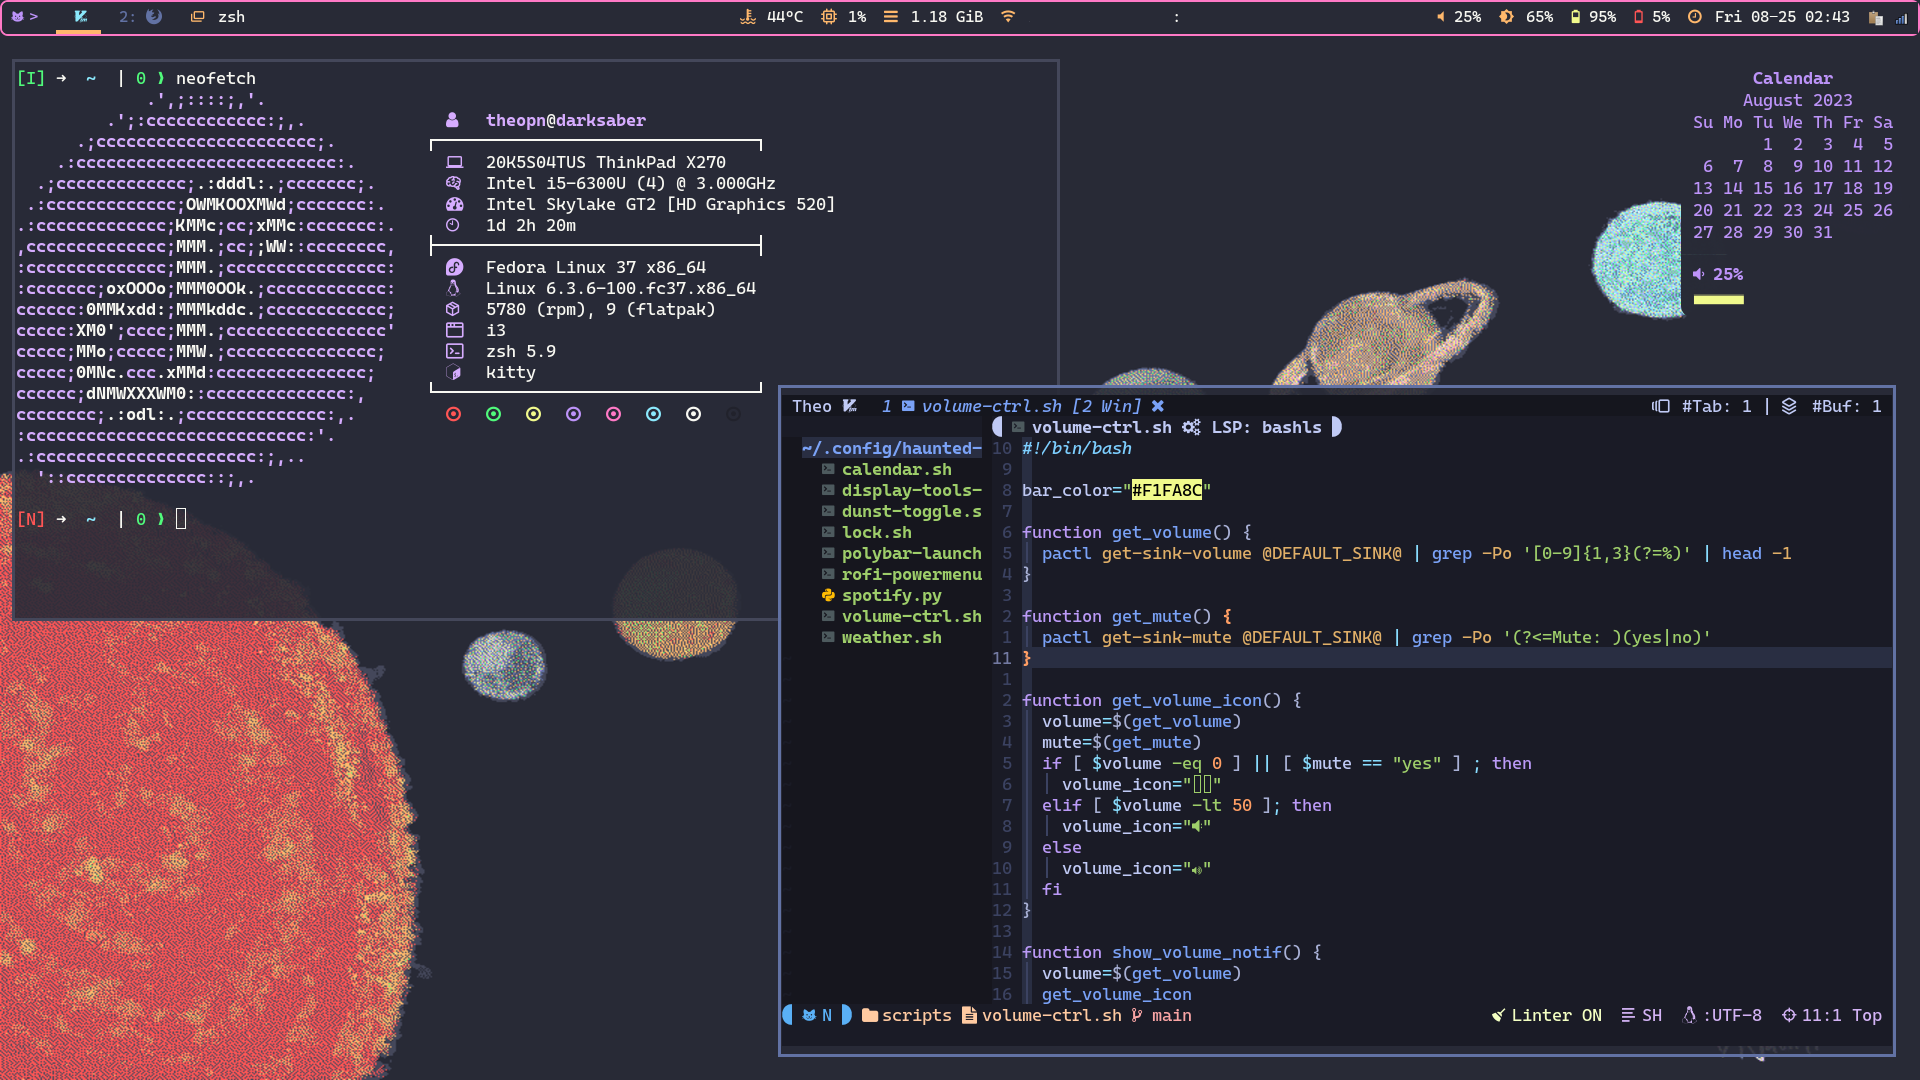
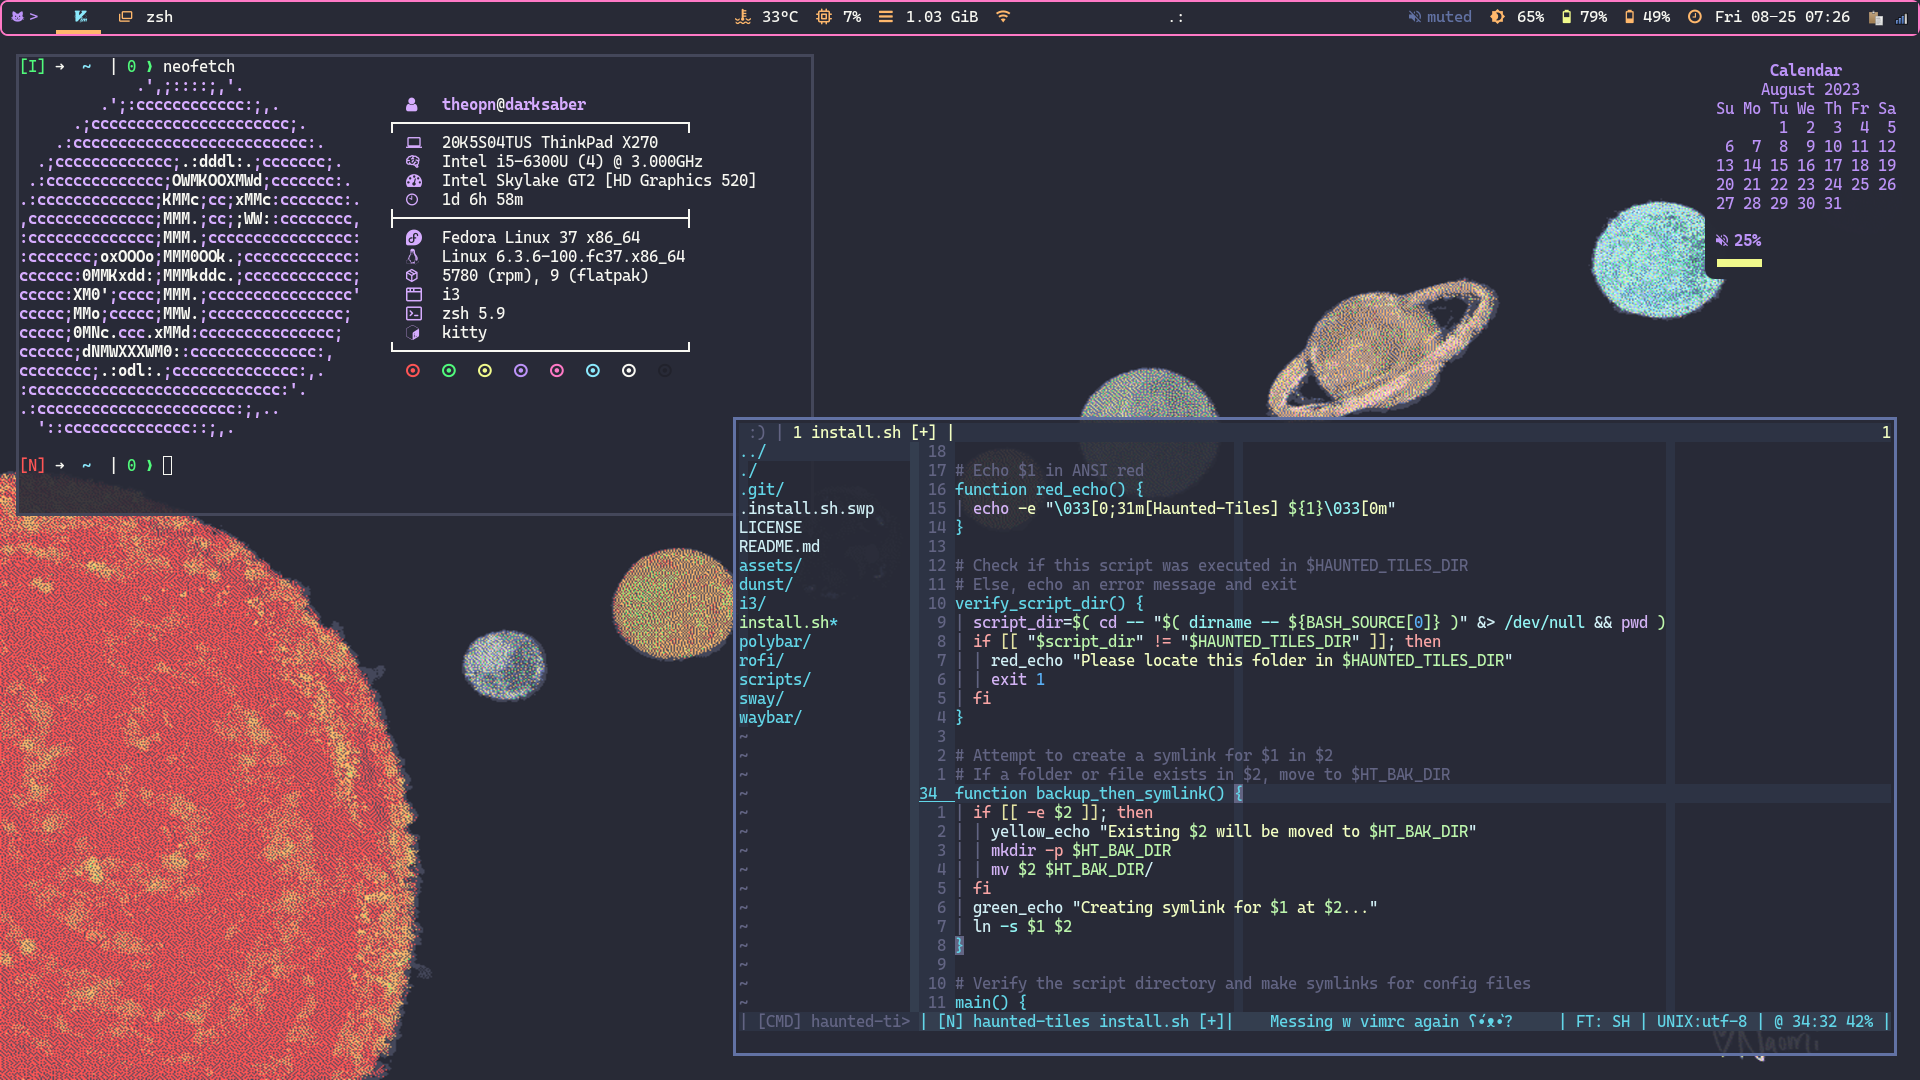
docs: change i3 screenshot

diff --git a/README.md b/README.md
@@ -1,6 +1,6 @@
 # Haunted-Tiles
 
-| <img src="./assets/haunted-tiles-logo.png" width="250" alt="Haunted Tiles logo"> |
+| <img src="./assets/out.png" width="250" alt="Haunted Tiles logo"> |
 |:--:|
 | Cute Logo |
 | ![i3-sc](./assets/i3-sc.png) |
@@ -9,30 +9,16 @@
 | Sway |
 
 
-Haunted-tiles is my i3 WM and Sway configurations, along with accommodating tools.
+Haunted-tiles is my personal i3 WM and Sway configurations, along with accommodating tools.
 It used to be a part of my [dotfiles repository](https://github.com/theopn/dotfile), but with the growing number of configurations and shared scripts between i3 and Sway, I made a separate repository for it.
 
-Both WM has 
-
-## Installation
-
-```bash
-git clone  ~/.config/haunted-tiles
-~/.config/haunted-tiles/install.sh
-```
-
-## Keybindings
-
-List of keybindings differing from the default:
-
-- `jkl;` -> `hjkl`
-- `$mod + h` -> `$mod + z`: "hori[z]ontal" split
-- `$mod + Space`: launches Rofi (you can also use the default `$mod+d`)
-- `$mod + Shift + c/r/e`: launches `i3_mode`/`sway_mode`, from which you can choose to reload config, restart, or exit i3/Sway
-- `$mod + Shift + p`: launches a Rofi menu with power options (lock, suspend, shutdown, etc.)
-- `$mod + Shift + s`: screenshot tool
+- Both X11 and Wayland strive to be a minimal setup that gets out of your way
+- The overall theme is [Dracula](https://draculatheme.com/contribute), hence the name "Haunted"-tiles
+    - It's also because I like naming everything
 
 ## i3 Dependencies
+
+These are packages get directly called in the i3 config or one of the scripts:
 
 - Brightnessctl: Backlight control
 - Clipit: Clipboard manager
@@ -55,6 +41,29 @@ Not necessary but helpful packages:
 - Pavucontrol: Volume control for Pulseaudio (or Pipewire that pretends to be Pulseaudio)
 - xrandr: External display output control, should be a dependency for X11 server
 
+## Installation
+
+- Installation script will ask you before creating a symlink for each configuration file
+- If there is a file/directory in the destination, it will be moved to `~/haunted-tiles.bak`
+- **Make sure you have Nerd Font installed!**
+    Haunted-tiles uses [CaskaydiaCove Nerd Font](https://www.nerdfonts.com/font-downloads).
+
+```bash
+git clone  ~/.config/haunted-tiles
+~/.config/haunted-tiles/install.sh
+```
+
+## Keybindings
+
+List of keybindings differing from the default i3/Sway:
+
+- `jkl;` -> `hjkl`
+- `$mod + h` -> `$mod + z`: hori[z]ontal split
+- `$mod + Space`: launches Rofi (you can also use the default `$mod+d`)
+- `$mod + Shift + c/r/e`: launches `i3_mode`/`sway_mode`, from which you can choose to reload config, restart, or exit i3/Sway
+- `$mod + Shift + p`: launches a Rofi menu with power options (lock, suspend, shutdown, etc.)
+- `$mod + Shift + s`: screenshot tool
+
 ## Polybar
 
 - Clicking the cat icon in the top left gives you hidden options
@@ -67,3 +76,4 @@ Not necessary but helpful packages:
 - You can mute sound by clicking the volume icon
 - You can view current month calendar by clicking the date
     - You can view the last month calendar by right-clicking the date
+
